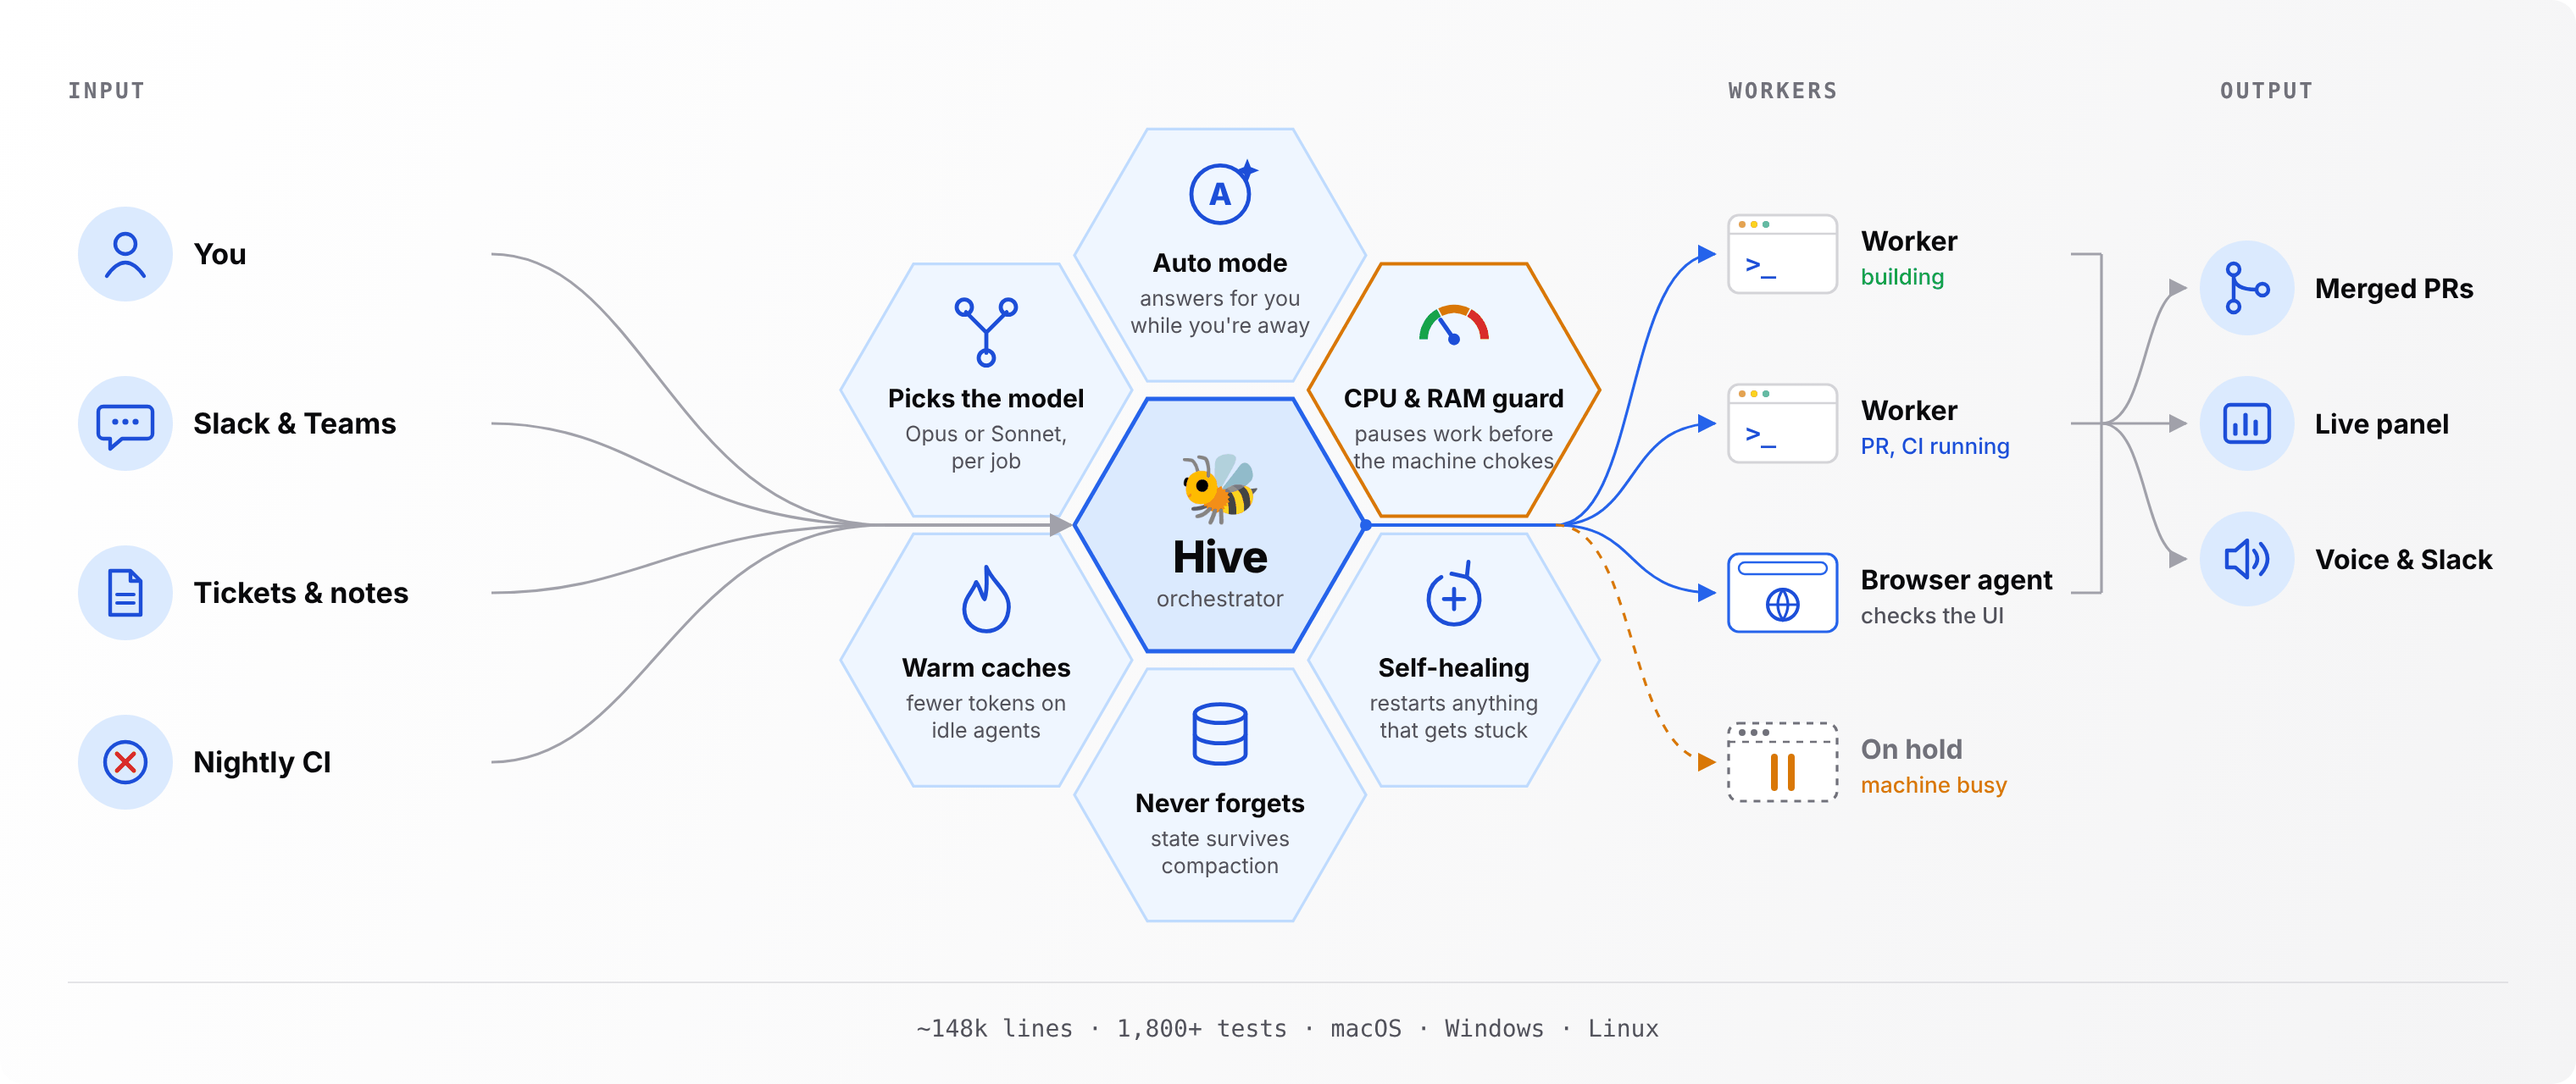
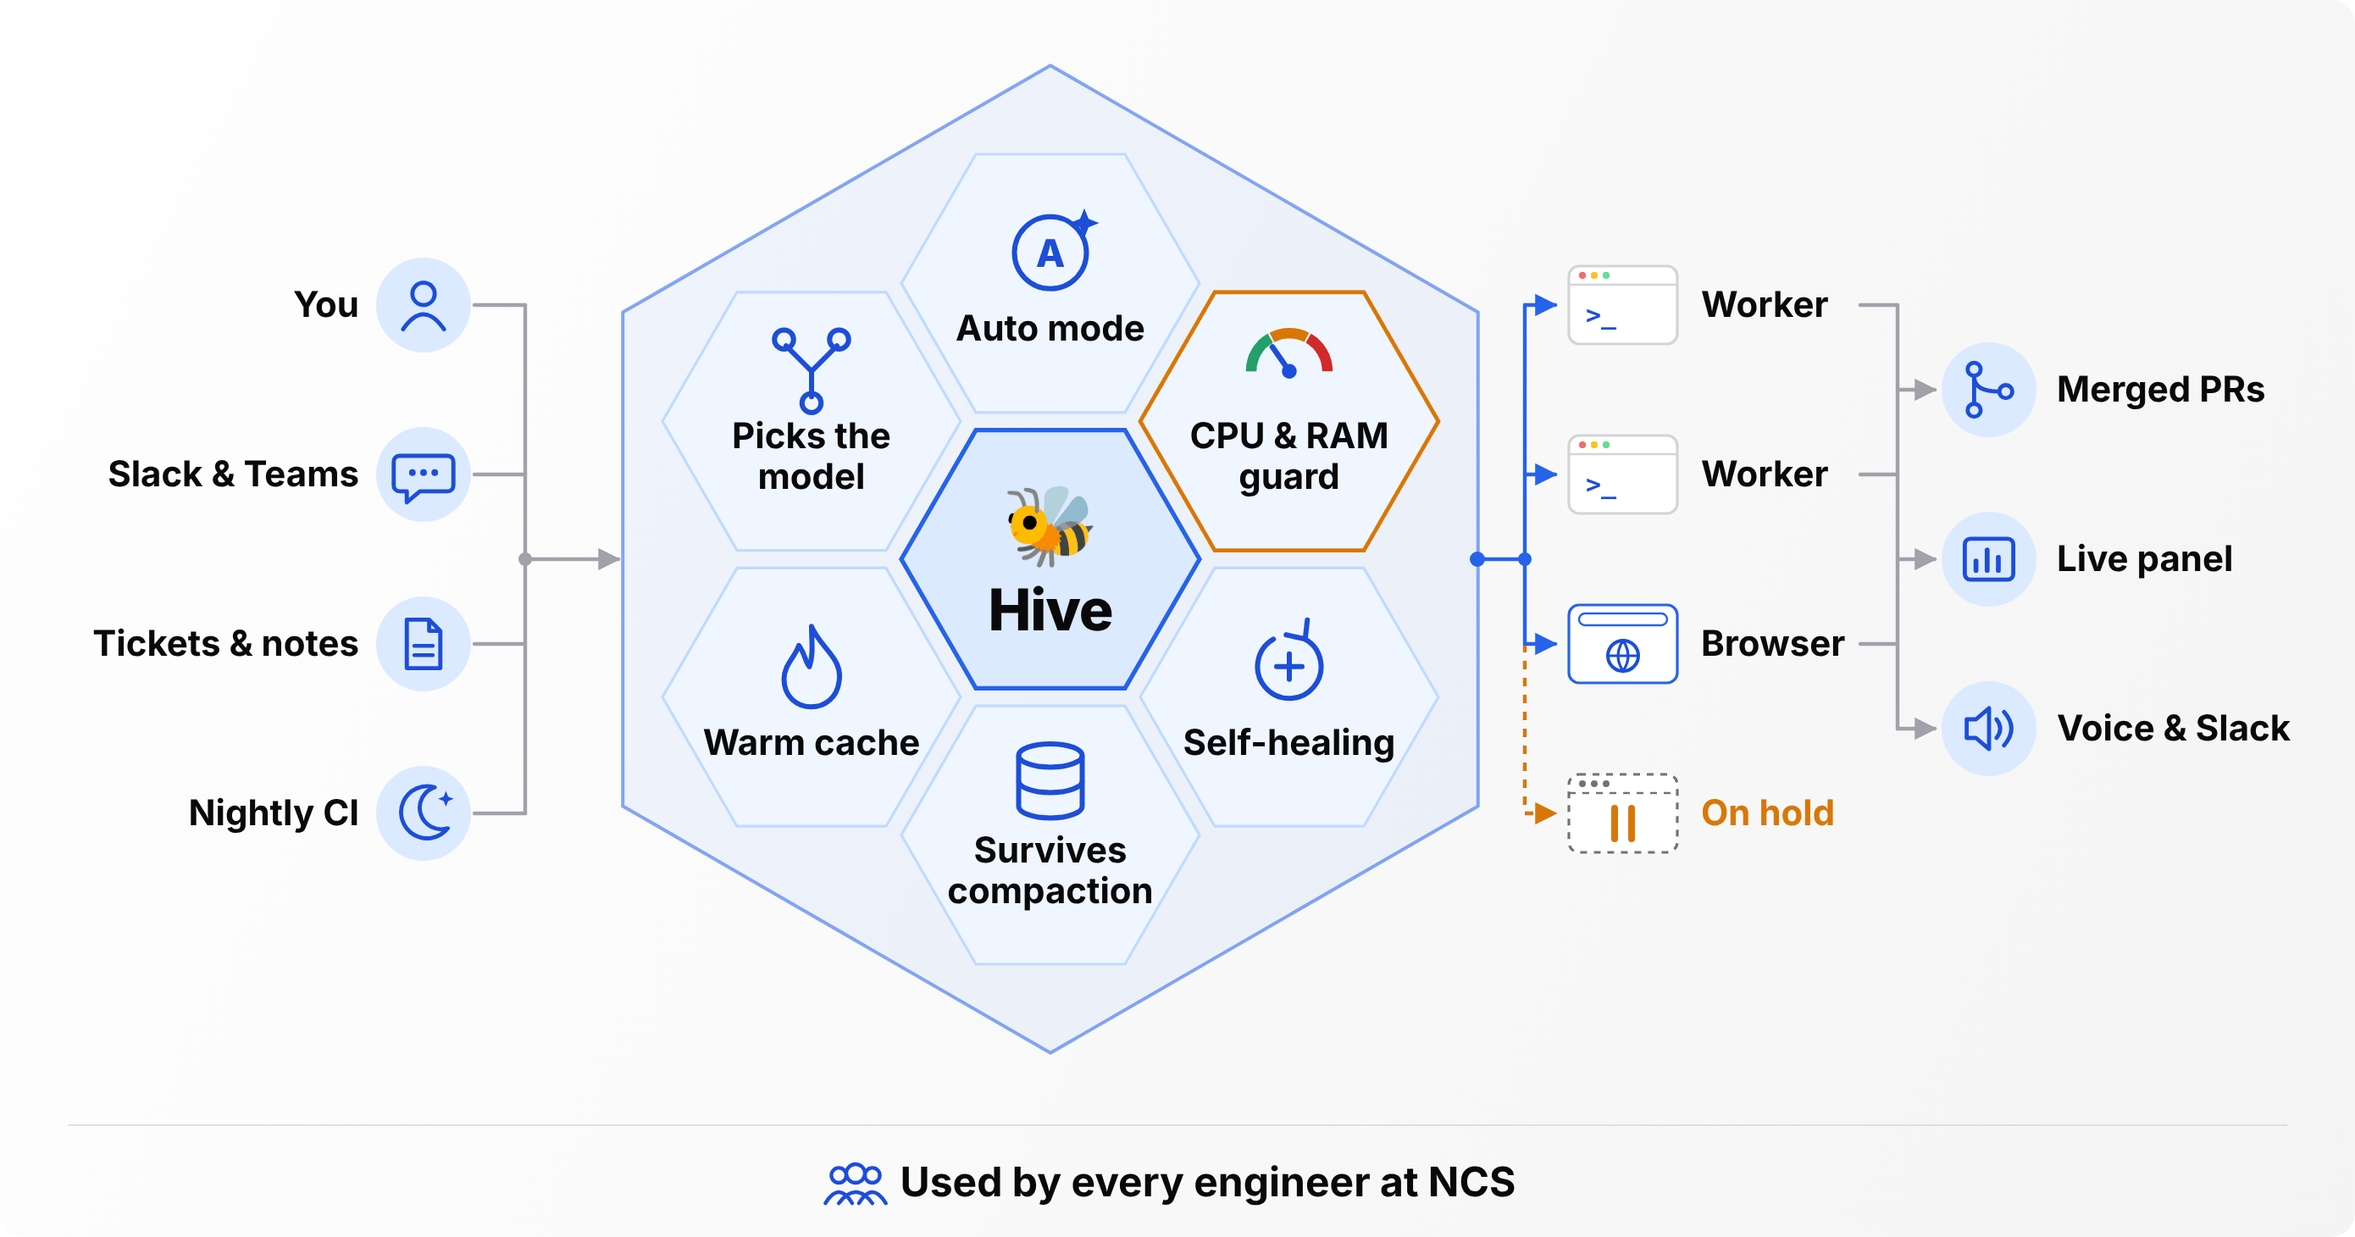
Redesign Hive diagram: bigger type, cleaner connectors, adoption footer
- Whole honeycomb wrapped in an outer Hive hexagon; arrows meet its edge
- Hexagons show icon + title only, readable at README width
- Softer wording, moon icon for nightly CI, 'Used by every engineer at NCS'

Claude-Session: https://claude.ai/code/session_01BAgEGmXzzXPF7n4ZXVdB4B

diff --git a/README.md b/README.md
@@ -26,7 +26,7 @@ My multi-agent orchestration system for Claude Code, now used across the company
 <picture>
   <source media="(prefers-color-scheme: dark)" srcset="./assets/hive-architecture.png" />
   <source media="(prefers-color-scheme: light)" srcset="./assets/hive-architecture-light.png" />
-  <img src="./assets/hive-architecture.png" width="100%" alt="Hive: work from you, Slack and Teams, tickets and nightly CI goes into Hive, which picks the model, runs in auto mode while you are away, guards CPU and RAM so the machine never chokes, keeps caches warm, never forgets and heals itself. It runs a team of Claude Code workers and a browser agent, and ships merged pull requests, a live panel and voice and Slack updates." />
+  <img src="./assets/hive-architecture.png" width="100%" alt="Hive: work from you, Slack and Teams, tickets and nightly CI flows into Hive, which picks the model, runs in auto mode, guards CPU and RAM, heals itself, survives compaction and keeps the prompt cache warm. It runs Claude Code workers and a browser agent, holds work when the machine is busy, and ships merged PRs, a live panel and voice and Slack updates. Used by every engineer at NCS." />
 </picture>
 
 ## Also built
